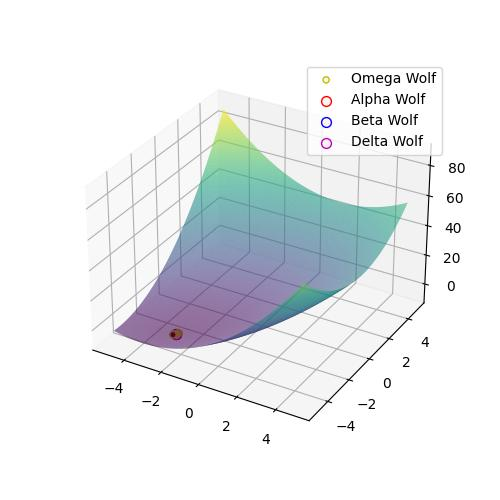
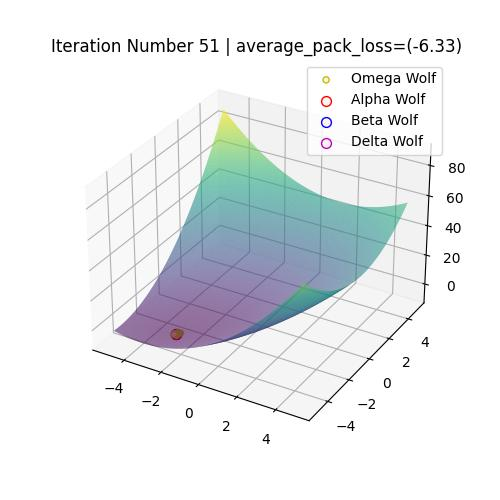
stabalized demo

Changed region(s): [[0.09, 0.06, 0.93, 0.12], [0.33, 0.66, 0.36, 0.69]]

diff --git a/demo.py b/demo.py
@@ -25,7 +25,7 @@ def plot(intermediate_populations, gwo, base_N=250, tmp_name="tmp.jpg"):
 	losses = fitness_function(complete_pop)
 	images = []
 	width = None
-	for pop in tqdm(intermediate_populations, desc="Plotting Graphs"):
+	for idx, pop in enumerate(tqdm(intermediate_populations, desc="Plotting Graphs")):
 		plt.cla()
 		plt.clf()
 		plt.rcParams["figure.figsize"] = (5,5)
@@ -39,6 +39,7 @@ def plot(intermediate_populations, gwo, base_N=250, tmp_name="tmp.jpg"):
 		ax.scatter3D(x_beta[0:1], x_beta[1:2], fitness_function(np.array([x_beta])), c=fitness_function(np.array([x_beta])), cmap="Reds", edgecolor="b", s=50, label="Beta Wolf")
 		ax.scatter3D(x_delta[0:1], x_delta[1:2], fitness_function(np.array([x_delta])), c=fitness_function(np.array([x_delta])), cmap="Reds", edgecolor="m", s=50, label="Delta Wolf")
 		plt.legend()
+		plt.title("Iteration Number "+str(idx+1)+" | average_pack_loss=("+str(round(np.mean(losses_pop), 2))+")")
 		plt.savefig(tmp_name)
 		img = Image.open(tmp_name)
 		if width is None:
